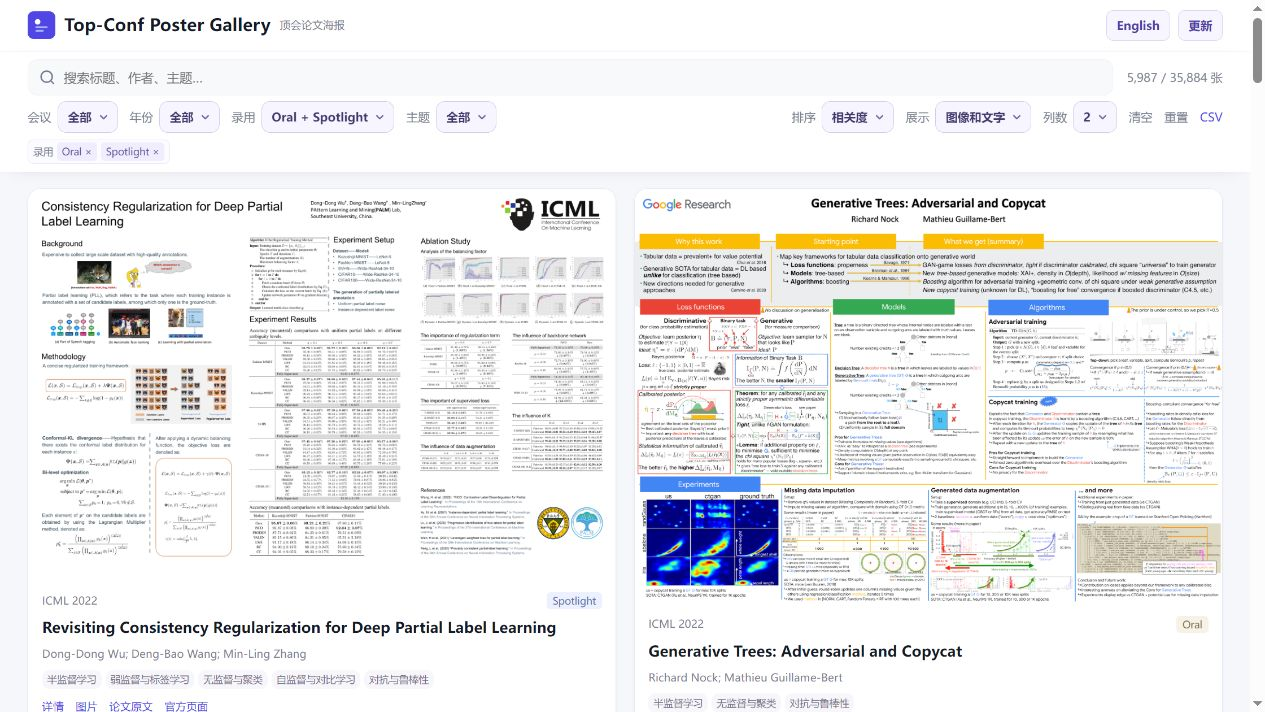
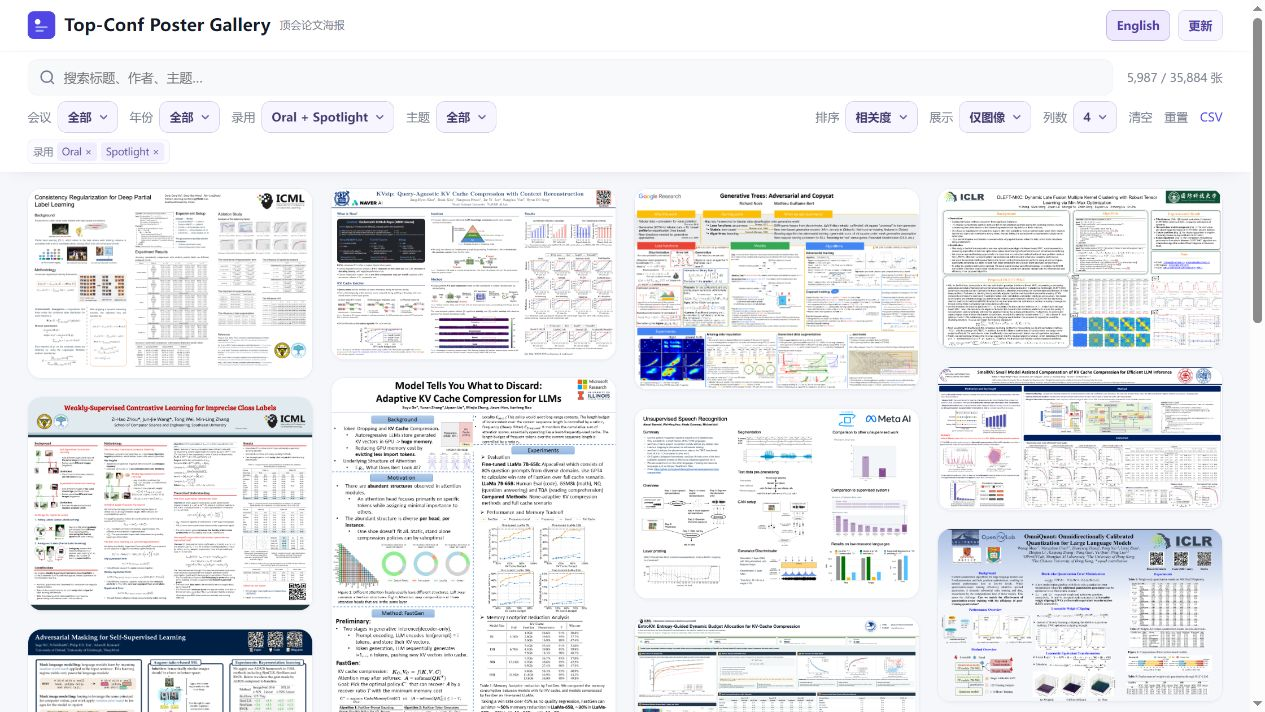
docs(readme): center hero and showcase four-column poster gallery

diff --git a/README.md b/README.md
@@ -1,21 +1,38 @@
-# Top-Conf Poster Gallery
+<h1 align="center">Top-Conf Poster Gallery</h1>
 
-### 顶会论文海报画廊 · NeurIPS · ICML · ICLR · 2021–2026
+<h3 align="center">顶会论文海报画廊 · NeurIPS · ICML · ICLR · 2021–2026</h3>
 
-Browse conference posters to explore research and find ideas for your own poster's layout, figures, and narrative.
+<p align="center">
+  <strong>从历年顶会海报中寻找设计灵感，通过阅读海报快速了解近年研究成果，<br>基于海报数据库探索 AI4Science 研究。</strong>
+</p>
 
-浏览顶会论文海报，寻找研究线索，参考版式、图文组织与论述方式。
+<p align="center">
+  Find design inspiration in conference posters, explore recent research at a glance,<br>
+  and use the poster collection as a starting point for AI4Science research.
+</p>
 
-![Posters](https://img.shields.io/badge/posters-35%2C884-4f46e5)
-![Conferences](https://img.shields.io/badge/conferences-NeurIPS%20%C2%B7%20ICML%20%C2%B7%20ICLR-6366f1)
-![Static site](https://img.shields.io/badge/site-static-64748b)
-[![MIT License](https://img.shields.io/badge/license-MIT-green)](https://github.com/lee-plus-plus/topconf-poster-gallery/blob/main/LICENSE)
+<p align="center">
+  <img src="https://img.shields.io/badge/posters-35%2C884-4f46e5" alt="35,884 posters">
+  <img src="https://img.shields.io/badge/conferences-NeurIPS%20%C2%B7%20ICML%20%C2%B7%20ICLR-6366f1" alt="NeurIPS, ICML and ICLR">
+  <img src="https://img.shields.io/badge/site-static-64748b" alt="Static site">
+  <a href="https://github.com/lee-plus-plus/topconf-poster-gallery/blob/main/LICENSE"><img src="https://img.shields.io/badge/license-MIT-green" alt="MIT License"></a>
+</p>
 
-**[Open the gallery / 在线浏览](https://lee-plus-plus.github.io/topconf-poster-gallery/)** · [English](#english) · [中文](#中文) · [Coverage / 数据覆盖](#coverage--数据覆盖) · [Report an issue / 反馈](https://github.com/lee-plus-plus/topconf-poster-gallery/issues)
+<p align="center">
+  <strong><a href="https://lee-plus-plus.github.io/topconf-poster-gallery/">Open the gallery / 在线浏览 →</a></strong>
+</p>
 
-[![Gallery overview: Chinese interface with conference filters and poster cards](https://raw.githubusercontent.com/lee-plus-plus/topconf-poster-gallery/main/docs/images/gallery-overview.jpg)](https://lee-plus-plus.github.io/topconf-poster-gallery/)
+<p align="center">
+  <a href="#english">English</a> · <a href="#中文">中文</a> · <a href="#coverage--数据覆盖">Coverage / 数据覆盖</a> · <a href="https://github.com/lee-plus-plus/topconf-poster-gallery/issues">Report an issue / 反馈</a>
+</p>
 
-*Browse, filter, and compare posters in one place. / 在同一页面浏览、筛选与对照海报。*
+<p align="center">
+  <a href="https://lee-plus-plus.github.io/topconf-poster-gallery/">
+    <img src="https://raw.githubusercontent.com/lee-plus-plus/topconf-poster-gallery/main/docs/images/gallery-overview.jpg" alt="Four-column poster gallery with conference, year, acceptance and topic filters" width="100%">
+  </a>
+</p>
+
+<p align="center"><em>Four columns of posters, ready to explore. / 四列海报瀑布流，一屏浏览更多研究。</em></p>
 
 ## English
 
@@ -23,6 +40,7 @@ A searchable gallery of **35,884 paper posters** from 17 editions of NeurIPS, IC
 
 - **Find relevant papers.** Filter by conference, year, acceptance type, and topic. Search titles, authors, and topic labels; combine filters across categories.
 - **Browse visually.** Choose images and text, images only, or text only. The masonry gallery supports 2–5 columns on desktop, incremental scrolling, full-size previews, and manual rotation.
+- **Explore AI4Science.** Use the metadata and source links to assemble research collections for scientific-document understanding, multimodal retrieval, and automatic poster generation.
 - **Build a reading list.** Follow links to the paper and official conference page, or export all matching entries to CSV.
 - **Switch languages.** Chinese and English controls and topic labels, with your preference saved locally. Paper titles and author names stay in their original form.
 - **Visit and browse.** [Open the online gallery](https://lee-plus-plus.github.io/topconf-poster-gallery/) in your browser. No account or installation required; poster images load from official conference sources as you browse.
@@ -35,6 +53,7 @@ The default selection shows **5,987 Oral / Spotlight entries**. Clear the accept
 
 - **快速筛选**：按会议、年份、录用类型和主题组合筛选，支持搜索标题、作者及中英文主题标签。
 - **专注看图**：图像和文字、仅图像、仅文字三种展示方式；桌面支持 2–5 列瀑布流、滚动加载、大图预览与手动旋转。
+- **探索 AI4Science**：利用海报元数据与来源链接组织研究材料，探索科学文档理解、多模态检索与海报自动生成等任务。
 - **整理清单**：直接访问论文原文和会议页面，将全部筛选结果导出为 CSV。
 - **中英文切换**：界面与主题标签支持双语，自动保存语言偏好，论文标题与作者保留原文。
 - **打开即用**：[访问在线画廊](https://lee-plus-plus.github.io/topconf-poster-gallery/)，无需注册或安装；浏览时按需加载官方海报图片。
